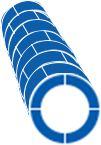
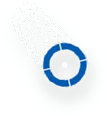
调整了风险页面图标的样式与内容

diff --git a/src/main/webapp/static/page/dungou/fengxian/css/fengxian.css b/src/main/webapp/static/page/dungou/fengxian/css/fengxian.css
@@ -91,9 +91,9 @@
 }
 .icon-pos{
     position: absolute;
-    top: 33%;
+    top: 44%;
     right: 15%;
-    font-size: 25px;
+    font-size: 72px;
     color: rgba(0,0,0,.5);
     z-index: 5;
     transform: rotateZ(-50deg);
